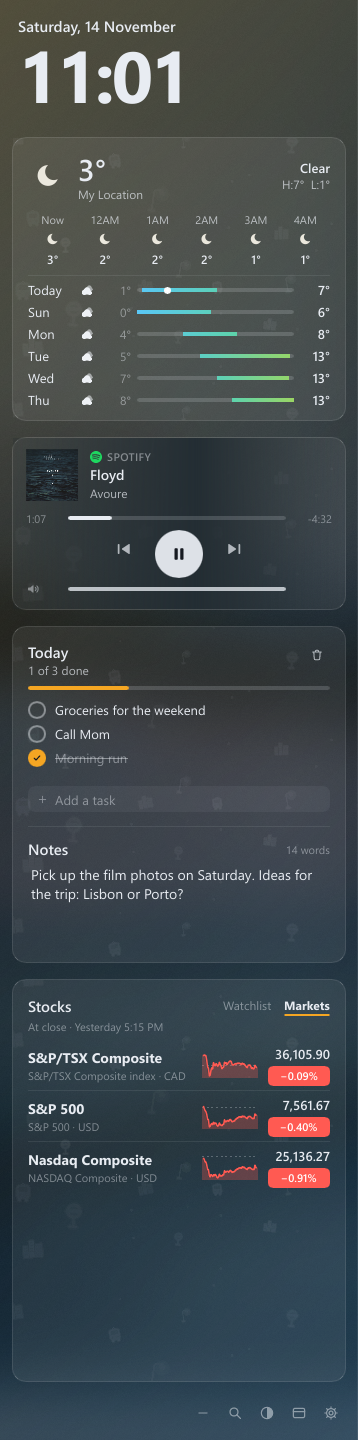
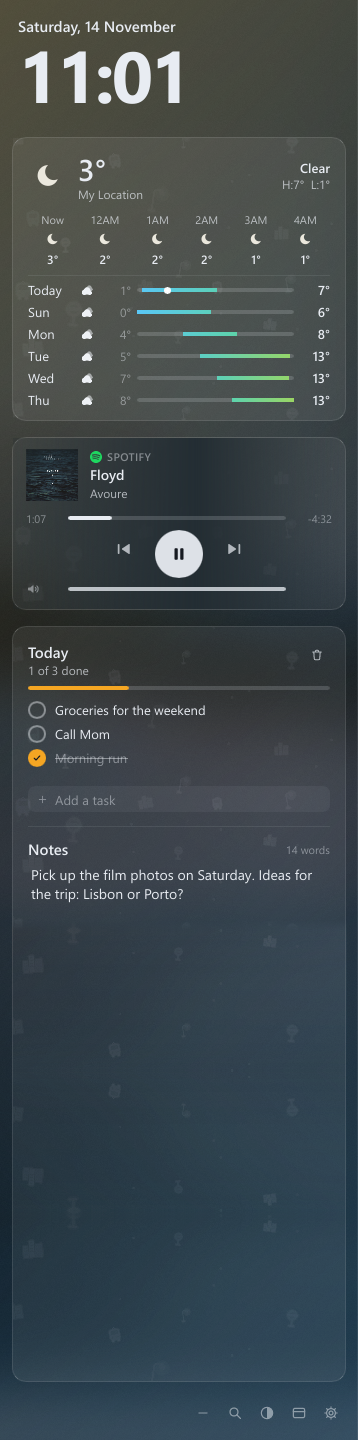
README: tighter copy and a three-card sidebar screenshot
The screenshot drops the Stocks card, leaving Weather, Music and Tasks & Notes.
The README is trimmed: a three-point pitch, two-step install, a widget table,
and bulleted privacy and tips sections.

Changed region(s): [[0.5531, 0.6875, 0.9218, 0.8438], [0.0615, 0.6875, 0.4609, 0.8125]]

diff --git a/README.md b/README.md
@@ -12,79 +12,75 @@ A heads-up display for Windows, written in Rust.
 [![CI](https://github.com/George-API/LifeHUD/actions/workflows/ci.yml/badge.svg)](https://github.com/George-API/LifeHUD/actions/workflows/ci.yml)
 [![License](https://img.shields.io/badge/license-MIT-blue.svg)](LICENSE)
 
+<a href="https://github.com/George-API/LifeHUD/releases/latest/download/lifehud.exe"><img src="https://img.shields.io/badge/Download_for_Windows-free-2ea44f?style=for-the-badge" height="44" alt="Download Life HUD for Windows"></a>
+
+<sub>Windows 10 or 11 · 18 MB · no admin needed</sub>
+
+<br>
 <br>
 
-<img src="docs/images/sidebar.png" width="340" alt="Life HUD as a sidebar: the time, the weather, Spotify playing in the music card, today's tasks and notes, and stocks">
+<img src="docs/images/sidebar.png" width="340" alt="Life HUD as a sidebar: the time, the weather, Spotify playing in the music card, and today's tasks and notes">
 
 <br>
 <br>
 
 </div>
 
-The time, the weather, what's playing, what's next. Life HUD keeps them where your eyes already are: a
-slim bar across the top of the screen, or a column down the side, with a clock and four widgets of your
-choice. It reserves that space the way the taskbar does, so windows resize around it instead of sliding
-under it. Fullscreen apps still cover it.
+Clock, weather, music, tasks and more, in a slim bar across the top of your screen or a column down
+the side. It reserves its space like the taskbar does, so windows resize around it instead of hiding
+under it.
 
-It's a single 18 MB native exe written in Rust: no Electron, no runtime, nothing to install alongside it.
-It uses about half a percent of one CPU core with music playing. No account, no telemetry, no ads.
+- **Native and light.** One 18 MB exe. No Electron, no runtime, ~0.5% of one core with music playing.
+- **Private.** No account, no telemetry, no ads. Everything stays on your machine.
+- **Yours.** Pick any four widgets and one of seventeen themes, most in light and dark.
 
 ## Install
 
-Download `lifehud.exe` from the [latest release](https://github.com/George-API/LifeHUD/releases/latest)
-and run it. That's the install: it copies itself to `%LOCALAPPDATA%\Programs\LifeHUD`, adds itself to
-the Start menu and to *Settings → Apps*, and starts. No admin, no wizard. Running a newer download
-later updates it the same way.
+1. **[Download `lifehud.exe`](https://github.com/George-API/LifeHUD/releases/latest/download/lifehud.exe)** (always the latest version).
+2. Open it. If you see *"Windows protected your PC"*, click **More info → Run anyway**. The exe isn't
+   code-signed yet; Windows only asks once.
 
-Want it portable instead? Put an empty file named `portable` next to the exe.
+That's it. It installs for your user, adds itself to the Start menu and *Settings → Apps*, docks to the
+top of the screen and opens Settings. To update, download and open it again. For a portable copy, put
+an empty file named `portable` next to the exe.
 
-Windows 10 (2004) or later. The exe isn't signed yet, so SmartScreen will ask the first time
-(*More info → Run anyway*). Releases are built by [CI](.github/workflows/release.yml) from this repo and
-come with a SHA-256.
+Requires Windows 10 (2004) or later. Releases are built by [CI](.github/workflows/release.yml) from this
+repo and ship with a SHA-256.
 
-## What's in it
+## Widgets
 
-- Clock and date, in your regional format
-- Weather from [Open-Meteo](https://open-meteo.com): hourly and daily, cached for when you're offline
-- Tasks and a scratchpad. Unfinished tasks roll over to the next day.
-- Music: Spotify, or anything that uses Windows media controls, with seek and the player's own volume.
-  Right-click it for your saved playlists.
-- Reddit: r/popular and your subreddits, with a quick picker
-- YouTube and Netflix: new uploads from your channels and Netflix's Top 10, played right in the widget,
-  plus whatever you're watching in your browser right now
-- News, sports scores for your teams, and a stock watchlist
-- A search box: Enter goes to Google, or send the question to ChatGPT, Claude or Gemini with your own key
+| Widget | What it shows |
+| --- | --- |
+| Weather | Hourly and daily from [Open-Meteo](https://open-meteo.com), cached for offline |
+| Music | Spotify or any app with Windows media controls: seek, volume, right-click for playlists |
+| Tasks & Notes | A to-do list that rolls unfinished tasks over, plus a scratchpad |
+| YouTube & Netflix | New uploads and the Top 10, played in the widget, plus what's playing in your browser |
+| Reddit | r/popular and your subreddits |
+| News, Sports, Stocks | Headlines, your teams' scores, a watchlist |
+| Search | Google, or ask ChatGPT, Claude or Gemini with your own API key |
 
-Pick any four widgets; the bar and the sidebar always show the same ones. Long-press the HUD to drag
-them around, or use *Settings → Widgets*. Twelve themes, a hover away under the paintbrush.
+Long-press the HUD to rearrange widgets, or use *Settings → Widgets*. Themes are under the paintbrush.
 
 <img src="docs/images/settings-widgets.png" width="720" alt="Settings, Widgets page">
 
 ## Privacy
 
-Everything stays in `%LOCALAPPDATA%\LifeHUD`. Each widget talks only to its own source: Open-Meteo,
-the news feeds in [`news.rs`](src/services/news.rs), ESPN, YouTube, Reddit, Netflix and Yahoo Finance.
-Sports, YouTube, Reddit, Netflix and Stocks only connect while they're on screen.
+- Data lives in `%LOCALAPPDATA%\LifeHUD`. Each widget talks only to its own source (Open-Meteo, the
+  feeds in [`news.rs`](src/services/news.rs), ESPN, YouTube, Reddit, Netflix, Yahoo Finance). Sports,
+  YouTube, Reddit, Netflix and Stocks only connect while they're on screen.
+- Music and "now watching" come from Windows media controls. Browser window titles are checked in
+  memory to tell YouTube from Netflix, never stored or logged.
+- AI messages go only to the provider you picked, only when you hit send. Conversations aren't saved;
+  keys live in Windows Credential Manager.
 
-Music and "now watching" are read locally from Windows media controls. To tell a YouTube tab from a
-Netflix one, Life HUD compares the titles of open browser windows in memory; they're never stored or
-logged.
+## Tips
 
-The AI tabs send messages only when you hit send, and only to the provider you picked. Conversations
-aren't saved, and API keys are kept in Windows Credential Manager.
-
-## Usage
-
-The tray icon opens Settings, and its menu has show/hide, layout, *Search & Ask…*, *Edit Widgets…* and
-quit. Launching the exe again also opens Settings. `lifehud.exe --exit` quits and gives the screen space
-back.
-
-In edit mode, drag cards to reorder them, drag one onto the tray to remove it, or drop a widget from the
-tray onto a card to swap it in. Esc or a click on empty space finishes; Ctrl+Z undoes.
-
-If a window won't move out of the way, it belongs to an app running as admin; Windows doesn't allow it.
-Uninstall from *Settings → Apps* like anything else. Your tasks, notes and settings stay in
-`%LOCALAPPDATA%\LifeHUD` until you delete that folder.
+- The tray icon opens Settings; its menu has show/hide, layout, search and widget editing.
+- In edit mode, drag cards to reorder, drag one to the tray to remove it, or drop a widget onto a card
+  to swap. Esc finishes, Ctrl+Z undoes.
+- `lifehud.exe --exit` quits and gives the screen space back.
+- A window that won't move aside belongs to an app running as admin; Windows doesn't allow it.
+- Uninstall from *Settings → Apps*. Your data stays in `%LOCALAPPDATA%\LifeHUD` until you delete it.
 
 ## Building
 
@@ -94,22 +90,21 @@ Rust 1.92+ with the MSVC toolchain.
 cargo run --release
 ```
 
-Rust and [Slint](https://slint.dev), talking to Win32 and WinRT directly. Debug builds can render any
-widget offscreen with `cargo run -- --snapshot <dir> <widget>`, so you can work on one without docking
-anything.
+Built on [Slint](https://slint.dev), with Win32 and WinRT called directly. Debug builds can render any
+widget offscreen with `cargo run -- --snapshot <dir> <widget>`.
 
 ## Contributing
 
-New widgets follow one pattern: a data source in `src/services/`, a controller in `src/feeds/`, and one
-Slint file in `ui/widgets/`. [CONTRIBUTING.md](CONTRIBUTING.md) walks through adding one, plus the
-layout of the code and the conventions it follows. New widgets, themes and fixes are all welcome.
+Each widget is a data source in `src/services/`, a controller in `src/feeds/` and a Slint file in
+`ui/widgets/`. [CONTRIBUTING.md](CONTRIBUTING.md) walks through adding one. Widgets, themes and fixes
+are all welcome.
 
-For bugs, the log at `%LOCALAPPDATA%\LifeHUD\lifehud.log` is the most useful thing to attach. Security
-issues go through [SECURITY.md](SECURITY.md) instead.
+For bugs, attach `%LOCALAPPDATA%\LifeHUD\lifehud.log`. Report security issues via
+[SECURITY.md](SECURITY.md).
 
 ## License
 
-MIT. The UI uses Slint under its royalty-free desktop license, which needs the "Made with Slint" badge
-on the About page; keep it if you ship your own builds.
+MIT. The UI uses Slint under its royalty-free desktop license, which requires the "Made with Slint"
+badge on the About page; keep it in your own builds.
 
 Not affiliated with Spotify, YouTube, Reddit, Netflix, ESPN, Yahoo, OpenAI, Anthropic or Google.
